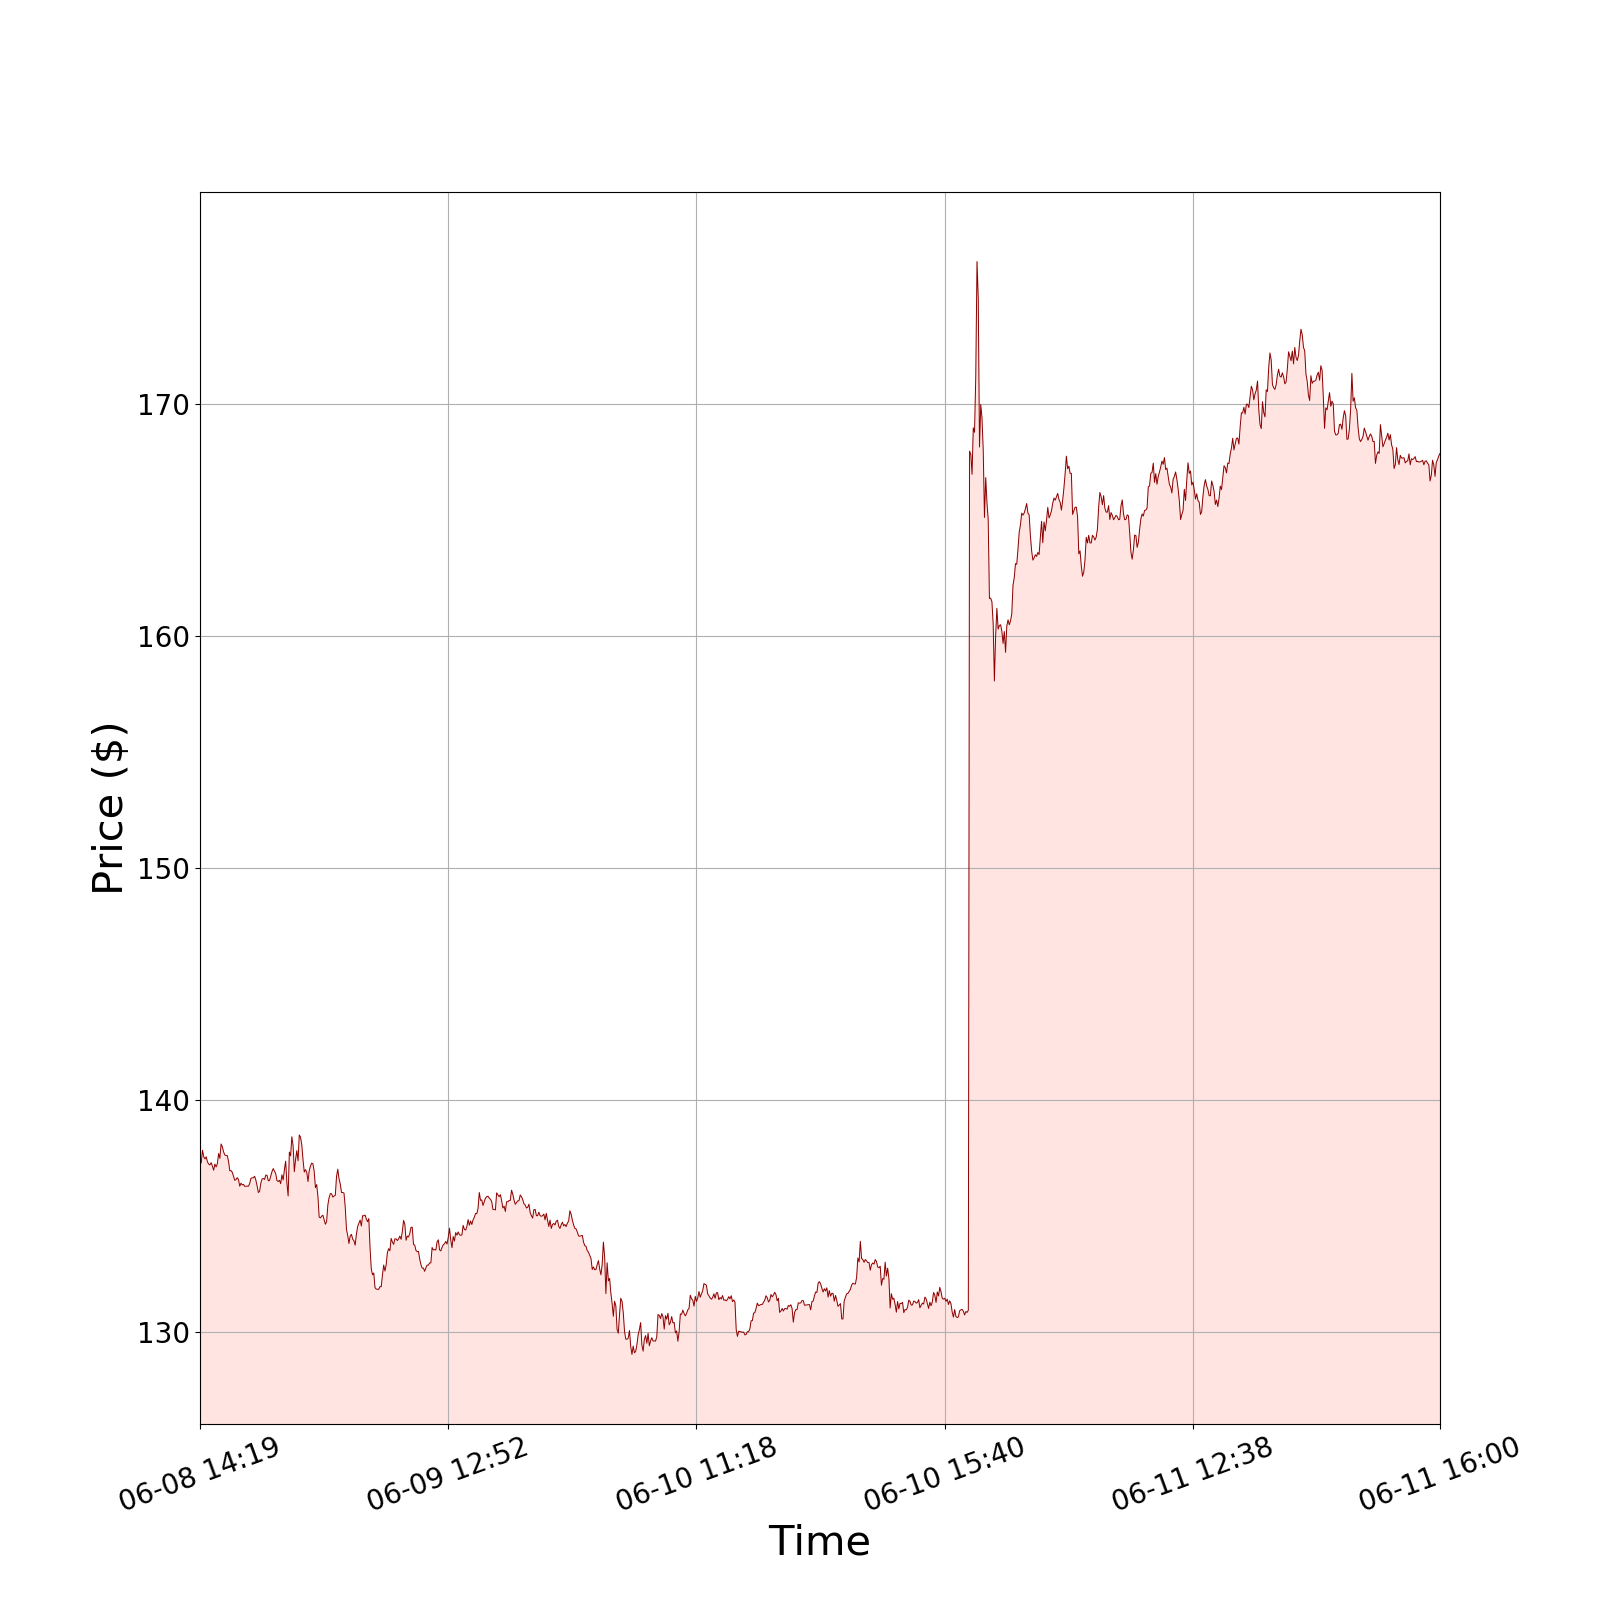
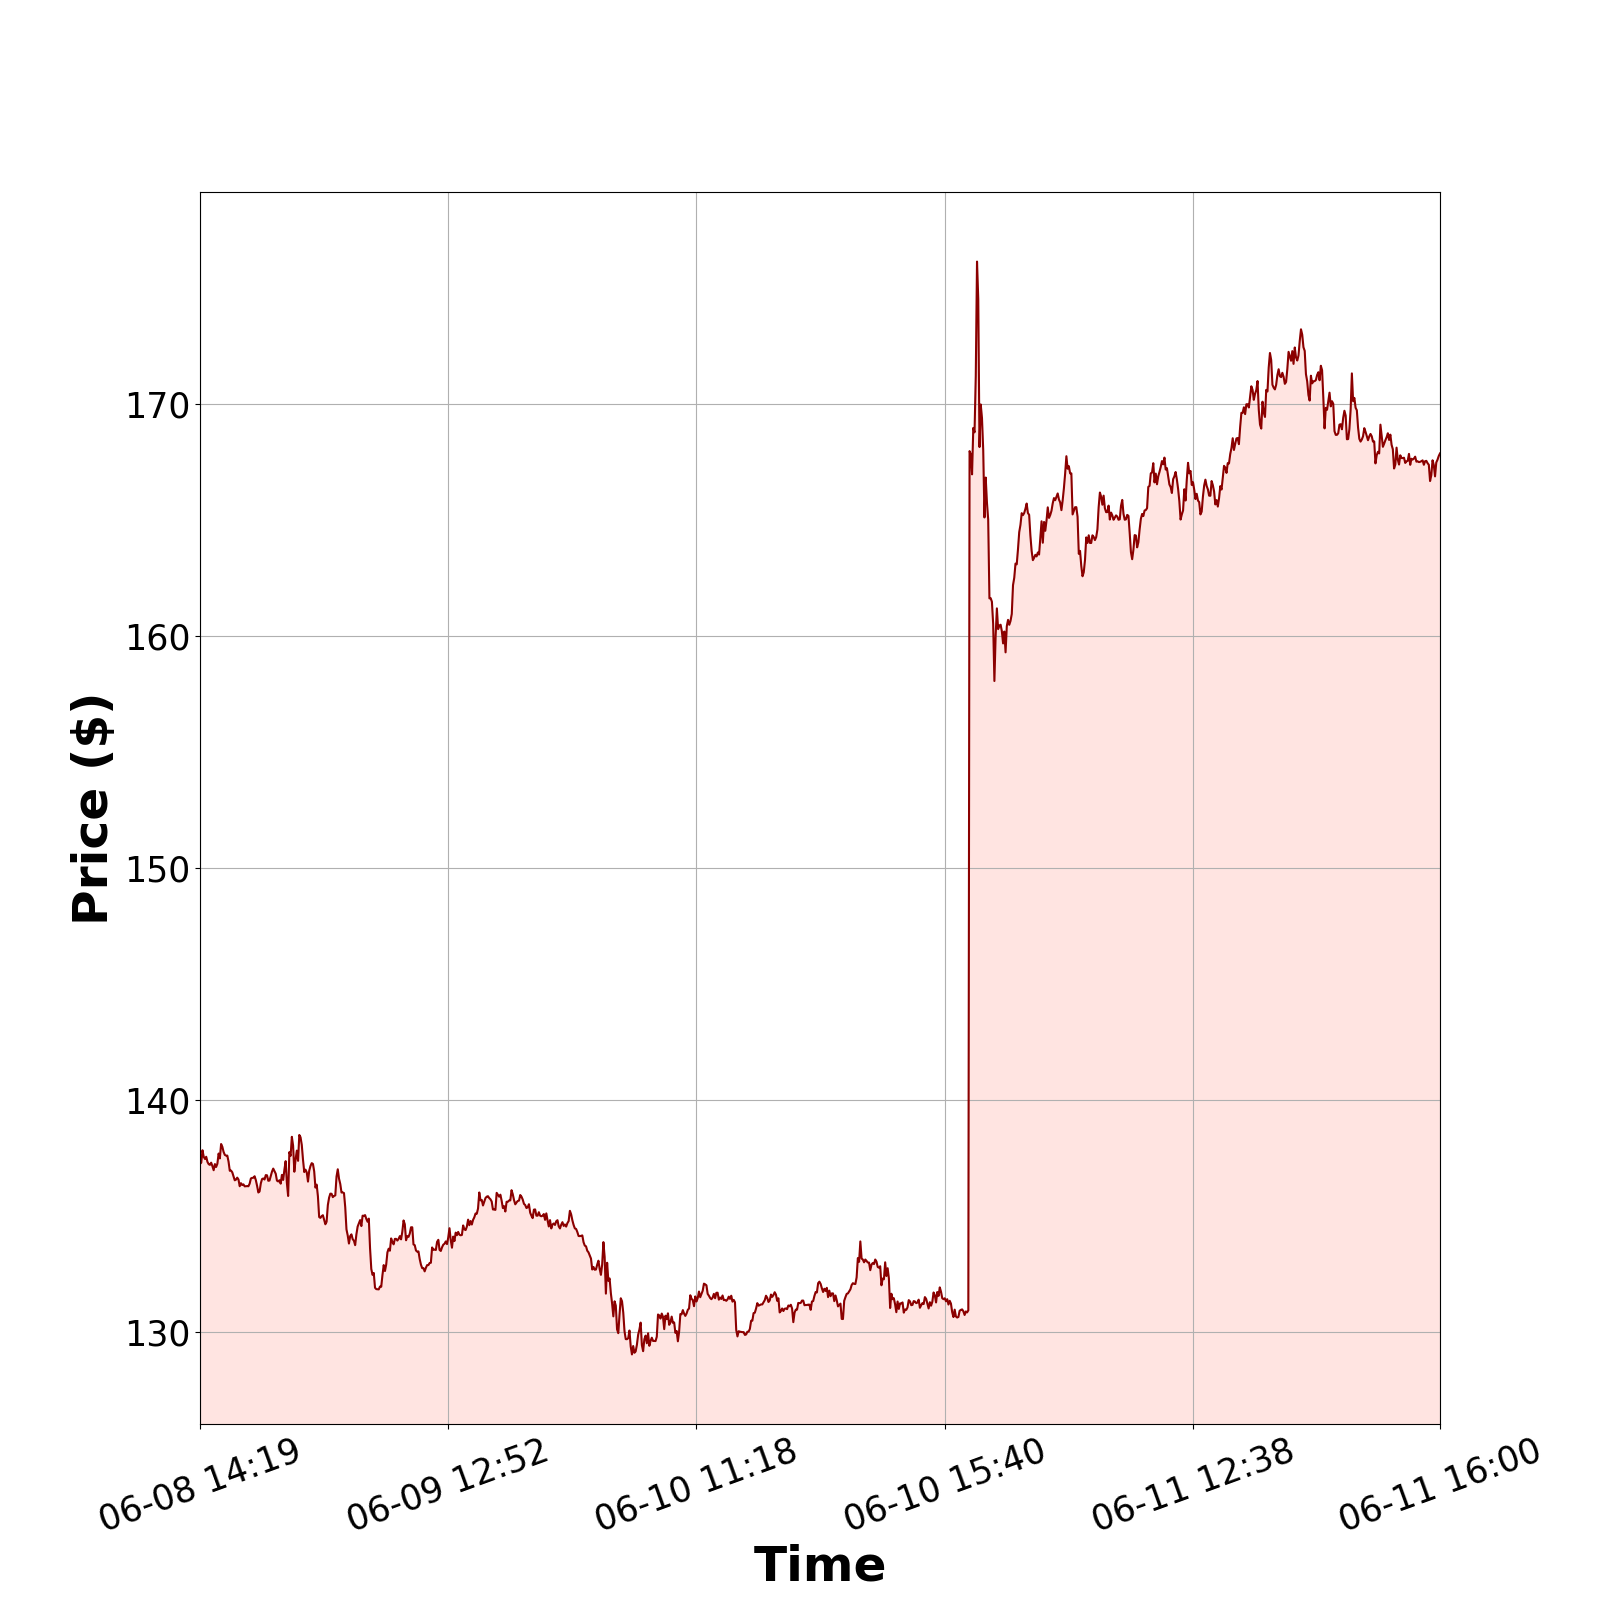
interface change to flutter

diff --git a/dart_folder/lib/main.dart b/dart_folder/lib/main.dart
@@ -14,17 +14,27 @@ class _HomeState extends State<Home> {
   @override
   Widget build(BuildContext context) {
     return MaterialApp(
-      color: Colors.yellow,
       home: DefaultTabController(
         length: 5,
         child: new Scaffold(
           body: TabBarView(
             children: [
-              new Container(
-                child : Image(
-                  image : AssetImage('assets/image1.png'),
-                ),
-                color: Colors.red[300],
+              new Column(
+                children: [
+                  Row(
+                    children : <Widget>[
+                      Container(
+                        child:
+                      ),
+                    ],
+                  ),
+                  Container(
+                    child : Image(
+                      image : AssetImage('assets/image1.png'),
+                    ),
+                    color : Colors.white,
+                  ),
+                ],
               ),
               new Container(
                 color: Colors.amber[300],
@@ -57,12 +67,12 @@ class _HomeState extends State<Home> {
               Tab(icon: new Icon(Icons.filter_5),)
             ],
             labelColor: Colors.white,
-            unselectedLabelColor: Colors.amber,
+            unselectedLabelColor: Colors.pink[50],
             indicatorSize: TabBarIndicatorSize.label,
             indicatorPadding: EdgeInsets.all(5.0),
             indicatorColor: Colors.amber,
           ),
-          backgroundColor: Colors.black,
+          backgroundColor: Colors.indigo[200],
         ),
       ),
     );

diff --git a/py_folder/websearch.py b/py_folder/websearch.py
@@ -82,7 +82,7 @@ class WebSearch():
         background = ['mistyrose','navajowhite','honeydew','paleturquoise','lavender']
 
         fig, ax = plt.subplots(figsize=(16,16))
-        plt.plot(x_axis,y_axis,color=color[type],linewidth=0.7)
+        plt.plot(x_axis,y_axis,color=color[type],linewidth=1.5,linestyle="solid")
         plt.fill_between(x_axis,y_axis,color=background[type])
 
         ax.set_xlabel('Time',fontsize=35,fontweight="bold")
